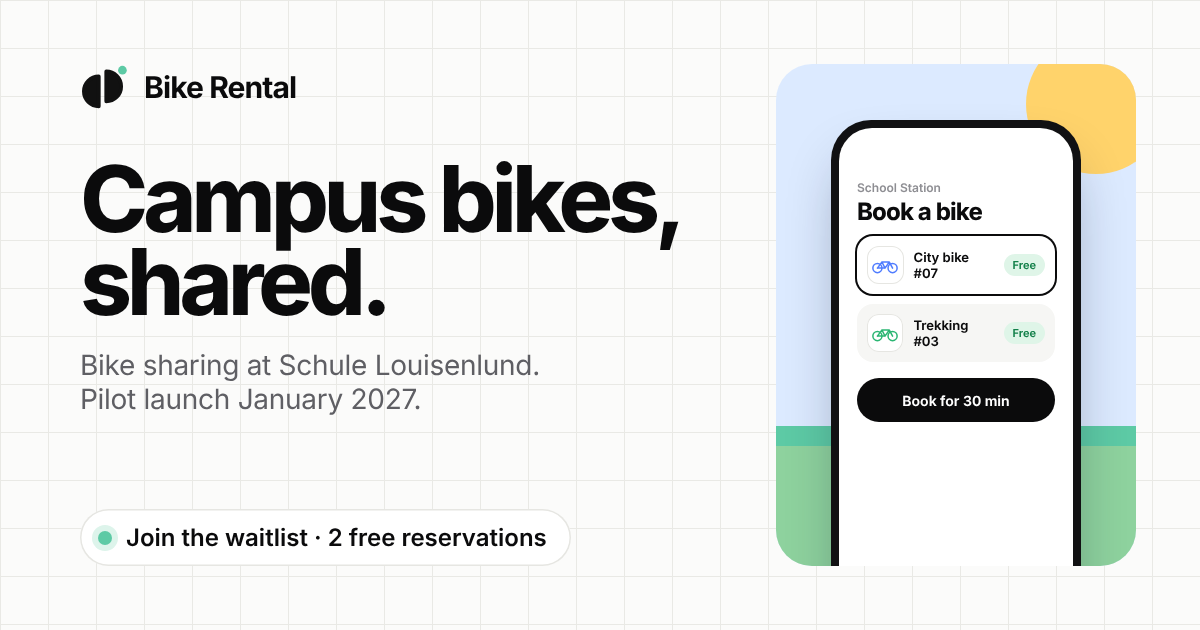
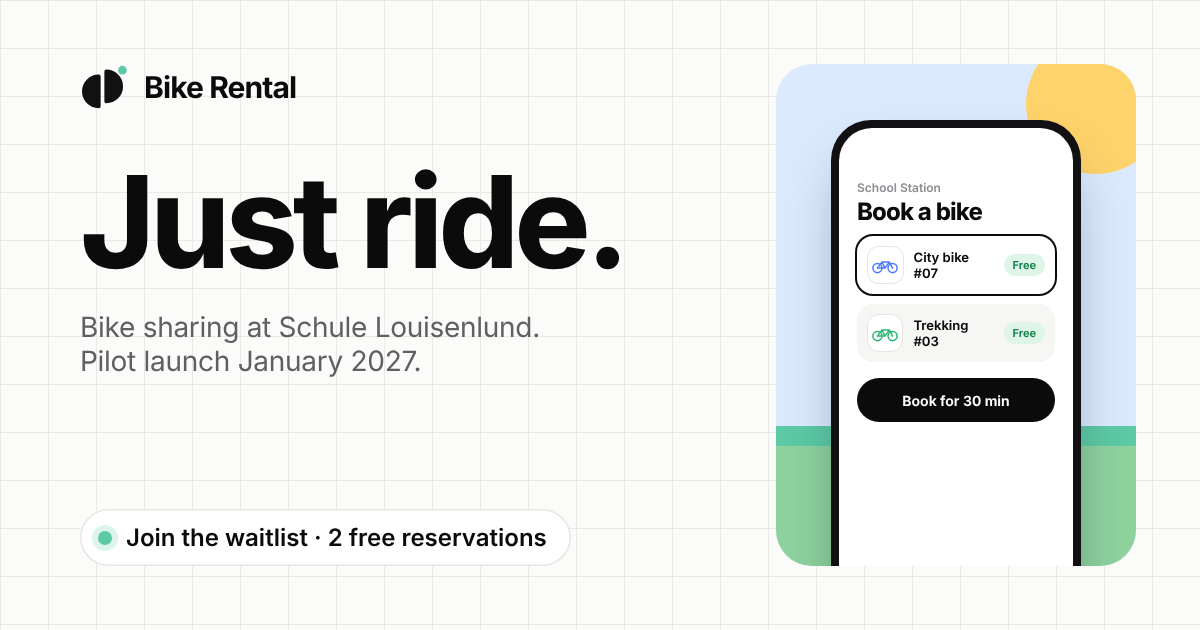
New hero headline: "Just ride."
Replaces "Campus bikes, shared." in the hero, footer tagline, Open Graph
title and the regenerated WhatsApp preview image. The browser tab title
now says what the page is: "Bike Rental · Student bike sharing at
Schule Louisenlund".

Claude-Session: https://claude.ai/code/session_019rjoEAqbyMKdwz67BFJC9h

Changed region(s): [[0.0617, 0.2413, 0.5858, 0.6635]]

diff --git a/bikeshare-website/site/index.html b/bikeshare-website/site/index.html
@@ -17,7 +17,7 @@
 <head>
   <meta charset="utf-8">
   <meta name="viewport" content="width=device-width, initial-scale=1, viewport-fit=cover, interactive-widget=resizes-content">
-  <title>Bike Rental · Campus bikes, shared.</title>
+  <title>Bike Rental · Student bike sharing at Schule Louisenlund</title>
   <meta name="description" content="Peer-to-peer bike sharing for students at Schule Louisenlund. Borrow a bike from the school station in seconds. Join the waitlist for the pilot in January 2027.">
   <meta name="theme-color" content="#FBFBFA">
 
@@ -26,13 +26,13 @@
        https://your-site.netlify.app with your real domain after deploying. -->
   <meta property="og:type" content="website">
   <meta property="og:site_name" content="Bike Rental">
-  <meta property="og:title" content="Bike Rental · Campus bikes, shared.">
+  <meta property="og:title" content="Bike Rental · Just ride.">
   <meta property="og:description" content="Borrow a bike from school in seconds. Back before the bell. Join the waitlist: early sign ups get 2 free reservations.">
   <meta property="og:url" content="https://your-site.netlify.app/">
   <meta property="og:image" content="https://your-site.netlify.app/img/og-image.png">
   <meta property="og:image:width" content="1200">
   <meta property="og:image:height" content="630">
-  <meta property="og:image:alt" content="Bike Rental: Campus bikes, shared. A student bike sharing pilot at Schule Louisenlund.">
+  <meta property="og:image:alt" content="Bike Rental: Just ride. A student bike sharing pilot at Schule Louisenlund.">
   <meta name="twitter:card" content="summary_large_image">
 
   <link rel="icon" href="img/favicon.svg" type="image/svg+xml">
@@ -190,7 +190,7 @@
         <!-- Offer text -->
         Early sign ups get 2 free reservations
       </p>
-      <h1 class="hero__title reveal">Campus bikes,<br>shared.</h1>
+      <h1 class="hero__title reveal">Just ride.</h1>
       <p class="hero__sub reveal">Student bike sharing at Schule Louisenlund. Borrow a bike in seconds, back before the bell.</p>
       <div class="hero__actions reveal">
         <a class="btn btn--dark btn--lg" href="#signup" data-role-select="ride">I want to ride</a>
@@ -807,7 +807,7 @@
     <div class="footer__top">
       <div class="footer__brand">
         <p class="footer__word">Bike Rental</p>
-        <p>Campus bikes, shared.<br>Pilot launch January 2027.</p>
+        <p>Just ride.<br>Pilot launch January 2027.</p>
         <a class="btn btn--light" href="#signup" data-role-select="ride">Join the waitlist</a>
       </div>
       <nav class="footer__cols" aria-label="Footer">

diff --git a/bikeshare-website/tools/og-image.html b/bikeshare-website/tools/og-image.html
@@ -10,7 +10,7 @@
   .wrap { position: absolute; left: 80px; top: 64px; width: 680px; }
   .logo { display: flex; align-items: center; gap: 14px; font-size: 30px; font-weight: 700; letter-spacing: -.03em; }
   .logo svg { width: 50px; height: 46px; }
-  h1 { margin-top: 48px; font-size: 92px; white-space: nowrap; font-weight: 750; letter-spacing: -.058em; line-height: .9; }
+  h1 { margin-top: 48px; font-size: 128px; white-space: nowrap; font-weight: 750; letter-spacing: -.04em; line-height: 1; }
   p { margin-top: 24px; font-size: 28px; color: #5F5F64; letter-spacing: -.01em; }
   .badge { position: absolute; left: 80px; bottom: 64px; display: inline-flex; align-items: center; gap: 14px; padding: 14px 24px 14px 18px; border-radius: 999px; background: #fff; box-shadow: inset 0 0 0 1.5px #E6E6E2; font-size: 24px; font-weight: 600; }
   .badge i { width: 14px; height: 14px; border-radius: 50%; background: #5DCAA5; box-shadow: 0 0 0 6px #DDF4EB; }
@@ -30,7 +30,7 @@
 <body>
   <div class="wrap">
     <div class="logo"><svg viewBox="-36 -40 80 74" role="img" aria-hidden="true"><path d="M-6 -20 A24 24 0 0 0 -6 28 Z" fill="#111111" stroke="#111111" stroke-width="6" stroke-linejoin="round"/><path d="M6 -28 A24 24 0 0 1 6 20 Z" fill="#111111" stroke="#111111" stroke-width="6" stroke-linejoin="round"/><circle cx="32" cy="-30" r="7" fill="#5DCAA5"/></svg>Bike Rental</div>
-    <h1>Campus bikes,<br>shared.</h1>
+    <h1>Just ride.</h1>
     <p>Bike sharing at Schule Louisenlund.<br>Pilot launch January 2027.</p>
   </div>
   <div class="badge"><i></i>Join the waitlist · 2 free reservations</div>
